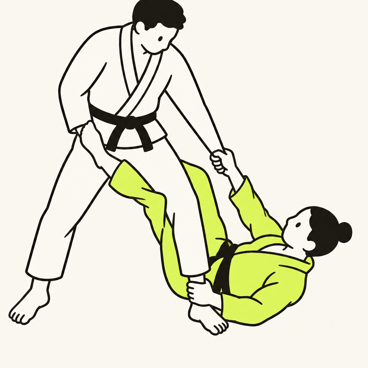
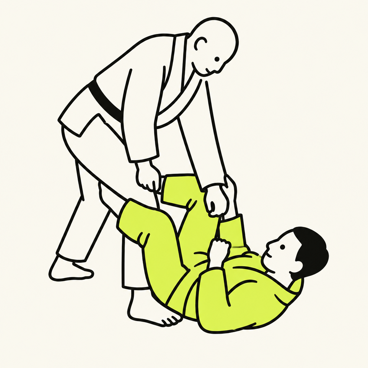
T-42: 포지션 그림 9장 사진 참고로 다시 · 프론트 헤드락 이전 그림으로 (D-52)

Changed region(s): [[0.0, 0.0, 0.9565, 0.9266], [0.2391, 0.6277, 0.269, 0.6875]]

diff --git a/data/position-art/PROMPTS.md b/data/position-art/PROMPTS.md
@@ -18,17 +18,17 @@ Minimal hand-drawn doodle illustration of two Brazilian jiu-jitsu athletes weari
 | `standing.png` | 스탠딩 · 클린치 | `Both athletes stand facing each other in a slight crouch, close together, one foot forward; each holds the other's collar with one hand and the other's sleeve with the other hand.` |
 | `closed-guard.png` | 클로즈드 가드 | `The lime athlete lies on their back. The white athlete kneels between the lime athlete's legs, sitting back toward the heels, leaning slightly forward with both hands on the lime athlete's belly. The lime athlete's legs wrap around the white athlete's waist with the ankles locked together behind the white athlete's lower back; the lime athlete holds the white athlete's collar and sleeve.` |
 | `open-guard.png` | 오픈 가드 | `The lime athlete lies on their back with knees bent and both feet placed on the white athlete's hips. The white athlete kneels on one knee with the other foot planted, hands gripping the lime athlete's pants at the knees. The lime athlete grips both of the white athlete's sleeves.` |
-| `butterfly-guard.png` | 버터플라이 가드 | `The lime athlete sits up, chest-to-chest with the white athlete, head beside the white athlete's head; one lime arm underhooks under the white athlete's armpit and grips the back of the white athlete's belt; both lime feet are hooked inside the white athlete's thighs. The white athlete kneels upright on both knees, arm over the lime athlete's shoulder.` |
-| `de-la-riva.png` | 데라히바 · 리버스 데라히바 | `The white athlete stands upright with legs apart. The lime athlete lies on their back next to the white athlete's front leg: the lime athlete's leg wraps around the outside of the white athlete's front leg, shin behind the calf and foot hooked on the inside of the white athlete's thigh; the lime athlete's other foot pushes the white athlete's far hip; the lime athlete holds the white athlete's ankle and sleeve.` |
-| `spider-lasso.png` | 스파이더 · 라쏘 · 소매 가드 | `The white athlete leans forward over the lime athlete with arms stretched out. The lime athlete lies on their back gripping both of the white athlete's sleeves and pressing both feet into the white athlete's biceps, knees bent, pulling the white athlete's arms straight.` |
-| `lapel-guard.png` | 라펠 가드 | `The lime athlete lies on their back with both legs up. The white athlete stands in front, leaning forward over the lime athlete's legs. The lime athlete has pulled out the long bottom end of their own lime-colored jacket lapel, wrapped it around the back of the white athlete's leg like a strap, and holds that lime lapel end in one hand; the lime athlete's feet push on the white athlete's hip and knee.` |
-| `x-guard.png` | X 가드 · 싱글 레그 X · 앵클락 | `The white athlete stands on one leg, off balance and leaning. The lime athlete lies underneath between the white athlete's legs, both lime legs crossed in an X shape around one of the white athlete's legs (one foot behind the knee, the other on the hip), hugging that leg, lifting the white athlete.` |
+| `butterfly-guard.png` | 버터플라이 가드 | `The lime athlete sits upright on the mat, one hand posted on the mat behind them, the other arm hooked under the white athlete's arm; both lime feet are hooked under the inside of the white athlete's thighs. The white athlete kneels on both knees right in front, leaning forward with chest pressed onto the lime athlete's shoulder and one arm draped over the lime athlete's back.` |
+| `de-la-riva.png` | 데라히바 · 리버스 데라히바 | `The white athlete stands bent forward with legs wide, both hands gripping the lime athlete's knee. The lime athlete lies on their back between the white athlete's feet: one lime leg wraps around the outside of the white athlete's front leg with the foot hooked behind the white athlete's thigh, the other lime foot presses the white athlete's hip; the lime athlete holds the white athlete's ankle and sleeve.` |
+| `spider-lasso.png` | 스파이더 · 라쏘 · 소매 가드 | `The white athlete stands bent forward in a staggered stance, hands gripping the lime athlete's pants at the knees. The lime athlete lies on their back holding both of the white athlete's sleeves; one lime foot presses into the white athlete's biceps and the other lime leg coils around the outside of the white athlete's other arm like a lasso.` |
+| `lapel-guard.png` | 라펠 가드 | `The white athlete stands upright with legs apart. The lime athlete lies on their back at the white athlete's feet; the lime athlete's own long lime lapel is pulled out and passes behind the white athlete's leg, and the lime athlete grips the lapel end together with the white athlete's ankle; the lime athlete's other foot presses on the white athlete's thigh.` |
+| `x-guard.png` | X 가드 · 싱글 레그 X · 앵클락 | `The white athlete stands bent forward with one leg stepped forward, hands pushing on the lime athlete's knees. The lime athlete lies on their back underneath, between the white athlete's legs: both lime legs tangle around the white athlete's front leg in an X — one foot hooked behind the white athlete's knee and the other foot pressing the white athlete's hip — while the lime athlete hugs that leg.` |
 | `half-guard.png` | 하프가드 | `The lime athlete lies on their back. The white athlete is on top, kneeling and leaning chest-to-chest over the lime athlete. The lime athlete's two legs lock around one of the white athlete's legs, trapping it between the lime knees with the lime ankles crossed; the white athlete's other leg is free and posted out to the side.` |
 | `passing.png` | 패스 | `The lime athlete lies on their back with knees up. The white athlete stands bent over, both hands pushing the lime athlete's knees down to one side and stepping around the legs toward the lime athlete's side.` |
-| `side-control.png` | 사이드 컨트롤 | `The lime athlete lies flat on their back with knees bent. The white athlete lies chest-down across the lime athlete's chest at a right angle, chest-to-chest, the white athlete's head on the far side of the lime athlete's head, knees on the mat against the lime athlete's near hip, one arm wrapped under the lime athlete's head and the other under the lime athlete's near arm.` |
-| `north-south.png` | 남북 (노스사우스) | `The lime athlete lies flat on their back with knees bent. The white athlete lies on top chest-to-chest but reversed: the white athlete's head is over the lime athlete's stomach, and the white athlete's legs stretch back past the lime athlete's head with knees on the mat; the white athlete's arms wrap under the lime athlete's arms.` |
-| `knee-on-belly.png` | 니 온 밸리 | `The lime athlete lies flat on their back. The white athlete is on top with one knee on the lime athlete's stomach, shin across the belly, the other leg extended far out to the side with the foot planted, torso upright and leaning slightly forward, one hand gripping the lime athlete's collar and the other the lime athlete's far sleeve.` |
-| `kesa-gatame.png` | 곁누르기 | `The lime athlete lies flat on their back. The white athlete sits on the mat at the lime athlete's side, hip against the lime athlete's ribs, torso leaning over the lime athlete's chest and facing the lime athlete's head; one white arm wraps around the lime athlete's head and the other clamps the lime athlete's near arm; the white athlete's legs are spread wide apart, one in front and one behind.` |
+| `side-control.png` | 사이드 컨트롤 | `The lime athlete lies flat on their back with one arm raised. The white athlete lies chest-down across the lime athlete's chest at a right angle, hips low, both knees on the mat beside the lime athlete's ribs, one arm wrapped under the lime athlete's head and the other blocking the lime athlete's hip, head pressed down beside the lime athlete's head.` |
+| `north-south.png` | 남북 (노스사우스) | `The lime athlete lies flat on their back. The white athlete lies chest-down on top in the opposite direction, head resting on the lime athlete's chest near the belly, legs stretched out long and sprawled beyond the lime athlete's head with toes on the mat; the white athlete's arms wrap around the lime athlete's arm.` |
+| `knee-on-belly.png` | 니 온 밸리 | `The lime athlete lies on their back with one hand reaching up. The white athlete is on top with one knee planted on the lime athlete's belly, the other leg stretched far out to the side, long and straight with the foot on the mat, torso upright, both hands pulling the lime athlete's collar up.` |
+| `kesa-gatame.png` | 곁누르기 | `The lime athlete lies flat on their back. The white athlete sits on the mat tight against the lime athlete's side, chest leaning over the lime athlete's chest, one arm wrapped around the lime athlete's head and the other trapping the lime athlete's arm; the white athlete's legs are in a wide split, one leg stretched forward along the mat and the other bent back behind.` |
 | `mount.png` | 마운트 | `The lime athlete lies flat on their back. The white athlete straddles the lime athlete's torso, knees on the mat on both sides of the lime athlete's chest, sitting low and leaning forward with hands posted on the mat near the lime athlete's head.` |
 | `back-control.png` | 백 컨트롤 | `Both athletes sit reclined on the mat. The white athlete is behind with chest against the lime athlete's back, both white heels hooked inside the lime athlete's thighs, one white arm over the lime athlete's shoulder and the other under the armpit, hands clasped across the lime athlete's chest.` |
 | `turtle.png` | 터틀 · 크루시픽스 | `The lime athlete is curled on knees and elbows in a tight ball with head tucked. The white athlete is at the lime athlete's side, chest draped over the lime athlete's back, one knee down and one leg posted, one arm wrapped around the lime athlete's waist.` |
@@ -45,3 +45,6 @@ Minimal hand-drawn doodle illustration of two Brazilian jiu-jitsu athletes weari
 - 2026-10-28 다시 만든 결과: 7개 × (flare · sunburst) 높은 품질 14장 = 21 크레딧. 고른 것 — 버터플라이 · 라펠 · 사이드 · 니 온 밸리 · 곁누르기 · 암바는 sunburst, 노스사우스는 flare. 지금까지 모두 43 크레딧.
 - 2026-10-28 본인 요청으로 전체 다시: studentofbjj.com 의 기본 포지션 · 서브미션 그림을 **눈으로 보고 자세만 말로 옮김**(그 그림을 올리거나 베끼지 않음). 공통 스타일을 "몸이 가깝게 붙고 낮게, 비스듬히 위에서 본 시점"으로 바꿈, 보통 품질.
 - 2026-10-28 전체 다시 만든 결과: 19개 × 2장(보통 품질) = 19 크레딧, 포지션마다 자세가 더 맞는 쪽을 골라 19장 모두 바꿈. 지금까지 모두 62 크레딧.
+- 2026-10-28 본인이 보낸 사진 9장(버터플라이 · 데라히바 · 스파이더/라쏘 · 라펠 · X 가드 · 사이드 · 노스사우스 · 니 온 밸리 · 곁누르기)의 자세를 말로 옮겨 다시 씀 → 본인 요청으로 **사진 자체를 Higgsfield 에 참고 이미지로 올려**(본인 계정에 저장됨) "이 사진의 자세 그대로, 선 그림 스타일로, 아래쪽 사람은 라임 · 위쪽은 흰 도복, 얼굴은 닮지 않게, 글자 · 로고 · 배경 빼기"로 9개 다시 만듦. 프론트 헤드락은 이전 그림으로 되돌림.
+- 2026-10-28 사진 참고 결과: 9개 × 2장(노스사우스 1장은 요청 몰림으로 거절) 보통 품질 + 글 설명 시험 8장. 사진을 따른 그림이 자세가 가장 정확해 9개 모두 바꿈. 선이 조금 더 굵고 단순해 나머지 10장과 느낌이 약간 다름.
+

diff --git a/TASKS.md b/TASKS.md
@@ -81,5 +81,5 @@
 - [ ] M2-02 기술마다 유튜브 영상 골라 넣기 (D-37 다음) — 완료 기준: YouTube Data API 키(서버에만)로 기술마다 후보 영상 몇 개를 찾고(영어 이름 + bjj, 조회수 · 길이 · 채널 기준), 운영자가 확인해 기술당 1개를 고르면 `techniques` 에 영상 id 저장(새 migration), 기술 상세 · 복습 뒷면에서 유튜브 공식 플레이어로 바로 재생. 영상이 없어지면 검색 버튼으로 돌아감. 정할 것: 쓰는 순서(기록에 나온 기술부터), 채널 기준(공식 강사 채널 우선 등), 하루 API 한도
 - [ ] M2-03 · T-40 사용자 기술 내용 보완 제안 (D-50) — 완료 기준: ① 기술 상세 "내용 보완 제안"(세팅 과정 고치기 3~5줄 + 다른 이름 더하기 + 이유 선택) ② 대기 중이면 "확인 대기 중", 한 사람 대기 10개까지(DB 규칙) ③ 운영 화면에서 지금 · 제안 줄 비교, 고쳐서 승인(기술에 바로 반영) · 버림, 보낸 사람은 안 보임 ④ 승인 → 보낸 사람 홈 알림 ⑤ 다른 사용자 제안은 못 봄(RLS 점검) ⑥ 휴대폰에서 제안 → 승인 → 반영 확인
 - [ ] M2-04 · T-41 기록 공유 이미지 카드 (D-51) — 완료 기준: ① 기록 보기 위쪽 "공유" → 미리보기(1080×1920, 날짜 · 기술 이름 · 포지션 · 내 글) ② "내 글 넣기" 끄기 ③ "공유하기" → 휴대폰 공유 창(인스타 스토리 · 카톡), 공유 창이 없으면 "이미지 저장" ④ 남의 기록 · 로그인 안 한 사람은 이미지 안 나옴 ⑤ 저장 · 공개 주소 없음 ⑥ 휴대폰에서 인스타 스토리 또는 카톡으로 보내 확인 (2026-10-28 **구현 · 배포 완료(5506b7b) · 휴대폰 확인 대기** — `/app/log/[id]/card`(next/og, Pretendard), 기록 보기 제목 줄 "공유" → 미리보기 팝업 · 내 글 넣기 스위치 · 공유하기(휴대폰 공유 창 되는 기기만) · 이미지 저장. 로컬 가짜 기록으로 기술 3 · 5개 · 글 끄기 확인, 인터넷 주소에서 로그인 안 하면 로그인 화면으로 가는 것 확인)
-- [ ] T-42 포지션 그림 19장 (D-52) — 완료 기준: Higgsfield 로 포지션마다 단순한 선 그림 후보를 만들고 한웅 님이 고름 → `src/assets/positions/` → 공유 카드 기술 옆에 표시. 자세가 틀린 그림은 쓰지 않음 (2026-10-28 **19장 넣음 · 휴대폰 확인 대기** — Higgsfield 연결 후 GPT Image 2.5 로 시험 3개 → 본인 의견(피부색 빼기 · 더 동적으로) 반영 → 포지션마다 후보 2장 중 하나 고름, 22 크레딧. 설명문 `data/position-art/PROMPTS.md`. → 본인 확인으로 7개(버터플라이 · 라펠 · 사이드 · 노스사우스 · 니 온 밸리 · 곁누르기 · 암바) 자세를 자세히 고쳐 높은 품질로 다시 만들어 바꿈, +21 크레딧(모두 43) → 본인 요청으로 studentofbjj.com 기본 포지션 · 서브미션 그림의 자세를 말로 옮겨 설명을 다시 쓰고 19장 전부 보통 품질로 다시, +19 크레딧(모두 62))
+- [ ] T-42 포지션 그림 19장 (D-52) — 완료 기준: Higgsfield 로 포지션마다 단순한 선 그림 후보를 만들고 한웅 님이 고름 → `src/assets/positions/` → 공유 카드 기술 옆에 표시. 자세가 틀린 그림은 쓰지 않음 (2026-10-28 **19장 넣음 · 휴대폰 확인 대기** — Higgsfield 연결 후 GPT Image 2.5 로 시험 3개 → 본인 의견(피부색 빼기 · 더 동적으로) 반영 → 포지션마다 후보 2장 중 하나 고름, 22 크레딧. 설명문 `data/position-art/PROMPTS.md`. → 본인 확인으로 7개(버터플라이 · 라펠 · 사이드 · 노스사우스 · 니 온 밸리 · 곁누르기 · 암바) 자세를 자세히 고쳐 높은 품질로 다시 만들어 바꿈, +21 크레딧(모두 43) → 본인 요청으로 studentofbjj.com 기본 포지션 · 서브미션 그림의 자세를 말로 옮겨 설명을 다시 쓰고 19장 전부 보통 품질로 다시, +19 크레딧(모두 62) → 본인이 보낸 사진 9장을 Higgsfield 에 참고 이미지로 올려 버터플라이 · 데라히바 · 스파이더/라쏘 · 라펠 · X 가드 · 사이드 · 노스사우스 · 니 온 밸리 · 곁누르기를 사진 자세대로 다시, 프론트 헤드락은 이전 그림으로)
 

diff --git a/DECISIONS.md b/DECISIONS.md
@@ -85,5 +85,5 @@
 - 이미지는 그때그때 서버에서 그 사람 기록으로만 만들고(RLS, 본인 기록만) **어디에도 저장하지 않는다**. 공개 주소가 없으니 사진을 받은 사람 말고는 볼 수 없다. AI · 외부 서비스로 보내는 것 없음(비용 0).
 - 공유 전에 미리보기를 먼저 보여 주고, **"내 글 넣기"를 끌 수 있다** — 글에 동료 이름 같은 게 있으면 기술 이름만 공유. 긴 글은 카드에서 잘리고 "…".
 - 기술은 카드에 4개까지, 더 있으면 "외 N개".
-## D-52 (2026-10-28) 공유 카드의 그림 → **기술마다가 아니라 포지션(19개)마다 한 장, 같은 포지션 기술은 같은 그림.** 본인 선택("포지션 그림 19장까지 오늘") · 그림 도구는 본인 선택("Higgsfield 로 단순한 선 그림"). 스타일: 디자인 레퍼런스(Calm 앱의 Pablo Stanley 손그림 사람)처럼 굵기 일정한 먹색 선 + 라임 한 색 채움, 크림 바탕, 얼굴 표정 · 글자 없음. 이유: 573장은 비용 · 확인 부담이 크고, 두 사람이 엉킨 자세는 AI 가 팔다리를 틀리게 그리기 쉬워 한 장씩 사람이 골라야 한다. 그림은 `src/assets/positions/{포지션 slug}.png`, 없으면 그 자리에 포지션 이름만. DESIGN.md "그림 없음" 규칙의 예외(공유 카드 안에서만, 앱 화면에는 안 씀). 시험 뒤 본인 의견으로 **피부색 없이 선만 · 조금 더 동적인 자세**로 바꿈. 모델 GPT Image 2.5(Higgsfield). 이후 본인 요청으로 studentofbjj.com 의 포지션 그림을 참고해 **몸이 가깝게 붙고 낮은, 비스듬히 위에서 본 자세**로 전부 다시 만듦 — 그 그림은 눈으로 보고 자세만 말로 옮겼고 이미지 AI 에 올리거나 베끼지 않음(남의 저작물). 모두 62 크레딧 / 본인 요청 / 영향: M2-04 → T-41 · T-42, DESIGN.md 6
+## D-52 (2026-10-28) 공유 카드의 그림 → **기술마다가 아니라 포지션(19개)마다 한 장, 같은 포지션 기술은 같은 그림.** 본인 선택("포지션 그림 19장까지 오늘") · 그림 도구는 본인 선택("Higgsfield 로 단순한 선 그림"). 스타일: 디자인 레퍼런스(Calm 앱의 Pablo Stanley 손그림 사람)처럼 굵기 일정한 먹색 선 + 라임 한 색 채움, 크림 바탕, 얼굴 표정 · 글자 없음. 이유: 573장은 비용 · 확인 부담이 크고, 두 사람이 엉킨 자세는 AI 가 팔다리를 틀리게 그리기 쉬워 한 장씩 사람이 골라야 한다. 그림은 `src/assets/positions/{포지션 slug}.png`, 없으면 그 자리에 포지션 이름만. DESIGN.md "그림 없음" 규칙의 예외(공유 카드 안에서만, 앱 화면에는 안 씀). 시험 뒤 본인 의견으로 **피부색 없이 선만 · 조금 더 동적인 자세**로 바꿈. 모델 GPT Image 2.5(Higgsfield). 이후 본인 요청으로 studentofbjj.com 의 포지션 그림을 참고해 **몸이 가깝게 붙고 낮은, 비스듬히 위에서 본 자세**로 전부 다시 만듦 — 그 그림은 눈으로 보고 자세만 말로 옮겼고 이미지 AI 에 올리거나 베끼지 않음(남의 저작물). 이어서 본인이 직접 모은 사진 9장은 **본인 요청으로 Higgsfield 에 참고 이미지로 올려** 자세만 따르게 함(얼굴은 닮지 않게, 글자 · 로고 · 배경 제거, 사진은 본인 Higgsfield 계정에 남음) / 본인 요청 / 영향: M2-04 → T-41 · T-42, DESIGN.md 6
 
